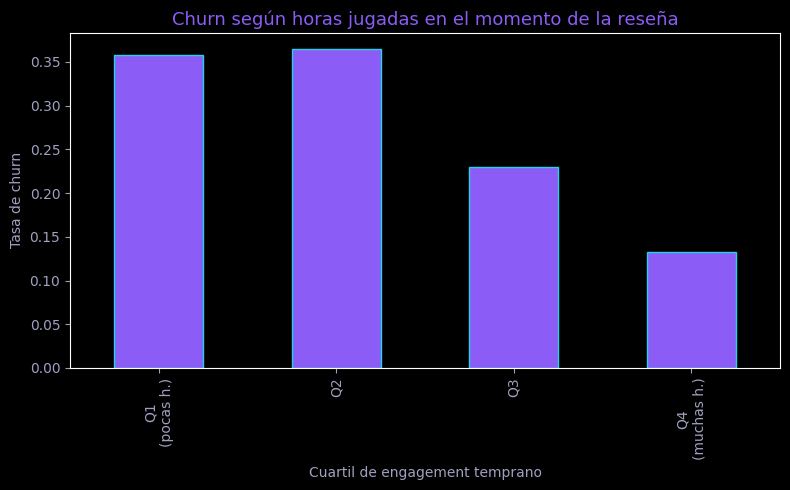
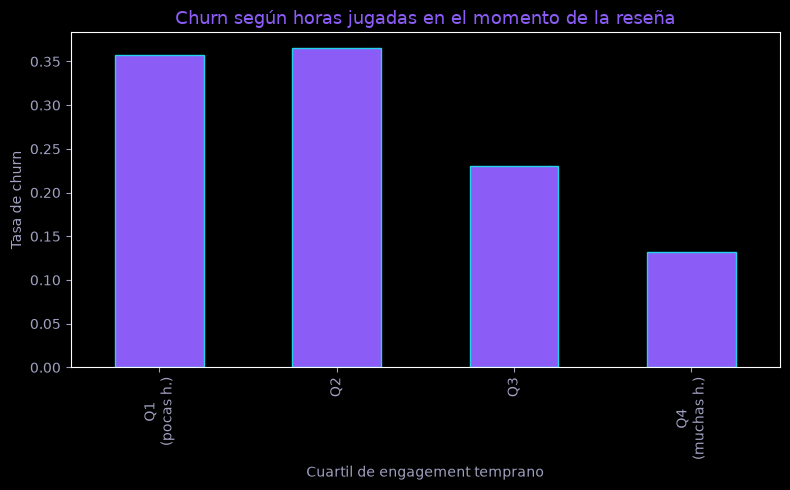
EDA unico en Jupyter: notebooks/EDA.ipynb, elimina scripts .py

diff --git a/web/i18n.js b/web/i18n.js
@@ -6,7 +6,7 @@ es: {
   hero: { badge: "● 18.099 reseñas reales · 6 F2P · cero sintéticos", h1a: "El abandono se ve venir", h1b: "en las señales tempranas", lede: "Estudiamos qué señales aparecen con más frecuencia entre quienes terminan abandonando y convertimos esas señales en <strong>prioridad, motivo y acción</strong> para Live-Ops. No adivinamos el futuro: ayudamos a decidir <strong>dónde actuar antes</strong>. Modelos auditables, validez probada <strong>juego por juego</strong>.", cta1: "Probar el simulador →", cta2: "Ver los datos reales", c1: "Jugadores reales etiquetados", c4: "ROC-AUC · Alto valor", logos: "6 títulos F2P", logos2: "pipeline reproducible" },
   mock: { bar: "live-ops · ranking semanal de riesgo", th1: "Jugador", th2: "Riesgo", th3: "Motivo", th4: "Acción", m1: "Pocas horas tempranas", a1: "Onboarding + evento diario", m2: "Señal antigua, título frío", a2: "Win-back + bundle retorno", m3: "No recomienda", a3: "Soporte proactivo", foot: "Demo ilustrativa · no es el modelo productivo · el piloto usa vuestros eventos reales" },
   prob: { title: "El problema, medido en datos reales", sub: "27,1% de los reseñistas pertenecen a la categoría de abandono que hemos definido. Y el engagement temprano muestra diferencias claras: Q1 (≤18 h) 35,7% frente a Q4 13,2% en nuestra muestra.", t1: "El abandono empieza pronto", p1: "Mediana de horas en reseña: 36,8 h en la categoría de abandono vs 120,6 h en activos. Las primeras horas pueden ser una ventana crítica para intentar enganchar al jugador.", t2: "Que guste no significa que se queden", p2: "En nuestra muestra, 26,5% de abandono entre quienes recomiendan vs 29,6% si no. La buena valoración por sí sola no debería ser la única señal para decidir a quién recuperar.", t3: "Cada juego tiene su propia historia", p3: "Dota 2 genera 3.000 reseñas en 3 días; Fall Guys en 470. El ritmo de la comunidad ayuda a entender en qué momento puede estar un juego — y dónde puede tener sentido concentrar esfuerzos." },
-  data: { title: "Datos 100% reales, auditables", sub: "18.099 reseñas públicas de Steam (API pública, sin key, 2026-09-14) → 16.447 jugadores etiquetados. Cobertura del 100% en campos clave. Procedencia completa en <code>docs/08_datos_reales.md</code>.", th1: "Título", th2: "Reseñas", th4: "Alto valor", th5: "p75 horas", note: "* Tasas dentro de nuestra muestra de personas que dejaron reseña y pertenecen a la categoría de abandono definida — no son la retención de esos juegos (documentado). Lo que generaliza son las relaciones, validadas juego por juego.", mini: "Lo que enseña cada figura (generadas por <code>notebooks/02_eda_real.py</code>)", f1t: "Estado por título", f1n: "Juegos vivos vs juegos en declive: dónde priorizar Live-Ops.", f2t: "Engagement temprano", f2n: "Q1 35,7% → Q4 13,2%: el hábito de las primeras horas decide.", f3t: "Satisfacción ≠ retención", f3n: "Recomendar apenas mueve la aguja (26,5% vs 29,6%).", zoom: "🔍 Clic para ampliar" },
+  data: { title: "Datos 100% reales, auditables", sub: "18.099 reseñas públicas de Steam (API pública, sin key, 2026-09-14) → 16.447 jugadores etiquetados. Cobertura del 100% en campos clave. Procedencia completa en <code>docs/08_datos_reales.md</code>.", th1: "Título", th2: "Reseñas", th4: "Alto valor", th5: "p75 horas", note: "* Tasas dentro de nuestra muestra de personas que dejaron reseña y pertenecen a la categoría de abandono definida — no son la retención de esos juegos (documentado). Lo que generaliza son las relaciones, validadas juego por juego.", mini: "Lo que enseña cada figura (generadas por <code>notebooks/EDA.ipynb</code>)", f1t: "Estado por título", f1n: "Juegos vivos vs juegos en declive: dónde priorizar Live-Ops.", f2t: "Engagement temprano", f2n: "Q1 35,7% → Q4 13,2%: el hábito de las primeras horas decide.", f3t: "Satisfacción ≠ retención", f3n: "Recomendar apenas mueve la aguja (26,5% vs 29,6%).", zoom: "🔍 Clic para ampliar" },
   sol: { title: "Dos puntuaciones, dos decisiones", tag1: "Producto principal", d1: "Analiza las señales disponibles y da una <strong>puntuación de riesgo + motivo + acción</strong>. No es “tiene riesgo” a secas, es “tiene prioridad porque presenta poco engagement temprano, vamos a intentar recuperarlo con esta acción”. <strong>Sin mirar la recencia</strong>: solo señales del momento de la reseña.", n1: "Validez por título ROC 0.891–0.924 en los 6 juegos. Matriz test: [[2258,140],[180,712]].", tag2: "Segunda línea · UA", d2: "Identifica perfiles que más se parecen a jugadores de mayor valor <strong>dentro de nuestros datos</strong> (top-25% horas + recomienda; threshold 0.60). Es un <strong>indicador aproximado</strong>: no tenemos gasto real y no decimos quién va a gastar. En un proyecto real se sustituye por los datos de compras del cliente.", n2: "Validez por título ROC 0.979–0.996. Indicador aproximado y transparente: los F2P no exponen pagos.", ht: "🔍 Honestidad técnica: qué podemos afirmar y qué no", h1: "<strong>Sin ventaja artificial:</strong> el modelo nunca ve horas totales, últimas 2 semanas, recencia, p75 ni (en conversión) el voto — definen las etiquetas. Verificable en <code>src/train_real.py</code>.", h2: "<strong>Sesgo declarado:</strong> muestra de personas que dejaron reseña, no de todos los jugadores; ventanas de observación desiguales; juegos PC F2P en Steam como los de PlayNova. Todo en <code>docs/08_datos_reales.md</code>.", h3: "<strong>Sin magia:</strong> una buena solución no es solo un número alto, es saber qué podemos afirmar y qué no. Artefactos versionados: <code>models/real_*.pkl</code>, <code>models/real_metrics.json</code>, DB de 2 MB." },
   demo: { title: "Demo: aquí no explicamos, lo enseñamos", sub: "Ajusta el perfil y mira prioridad, motivo y acción. Demo ilustrativa calibrada con las importancias reales — no es exactamente el modelo productivo.", hours: "Horas jugadas (en reseña):", hoursUnit: "h", games: "Juegos en la cuenta:", age: "Antigüedad de la señal:", ageUnit: "días", titleLab: "Título", t_dota: "Dota 2 (vivo)", t_apex: "Apex Legends (vivo)", t_poe: "Path of Exile (frío)", t_fall: "Fall Guys (en declive)", votedLab: "¿Recomienda el juego?", yes: "Sí", no: "No", p1: "⚠ En riesgo", p2: "😐 Típico", p3: "✅ Sano", bTitle: "🧮 Calculadora de escenario (estimación, no garantía)", bDesc: "Escenario con nuestro indicador aproximado: ~19,9% encajaría en el grupo de alto valor. Es una <strong>estimación basada en nuestro proxy, no una garantía de ingresos</strong>. En un proyecto real lo sustituimos por los datos de PlayNova Games.", budget: "Budget ($/mes)", ltv: "LTV alto valor ($)", calc: "Calcular" },
   pilot: { title: "Piloto de 4 semanas: probarlo con vuestros datos", sub: "No os pedimos que creáis en ChurnGuard. Os pedimos cuatro semanas para demostrarlo con vuestros propios datos.", t1: "Semana 1 · Conectar", p1: "Export diario de eventos con identificadores anonimizados (CSV o endpoint): sesiones, progresión, compras, atribución. Firma DPA. Nada invasivo el día 1.", t2: "Semanas 2–3 · Probar", p2: "Grupo de mayor prioridad + acción recomendada vs grupo con tratamiento habitual. Métrica primaria: retención. Secundarias: 2ª sesión y conversión.", t3: "Semana 4 · Decidir", p3: "Medimos si ha mejorado la retención y la conversión. Si funciona, tenemos argumentos para continuar. Si no funciona, también lo sabremos. Precio piloto: <strong>2.500 €</strong> fijos.", ht: "🔌 Integración y GDPR", h1: "<strong>Input:</strong> CSV diario o POST JSON a <code>/score</code> → <code>{p_churn, motivo, acción}</code>. Latencia &lt; 200 ms p95.", h2: "<strong>Privacidad:</strong> IDs anonimizados, sin PII. Borrado a petición, retención 90 días.", h3: "<strong>Stack:</strong> scikit-learn versionado (seed 42), <code>.pkl</code> con encoders. Re-entreno semanal." },
@@ -20,7 +20,7 @@ en: {
   hero: { badge: "● 18,099 real reviews · 6 F2P · zero synthetic", h1a: "Abandonment can be seen coming", h1b: "in the early signals", lede: "We study which signals appear most often among players who end up leaving and turn them into <strong>priority, reason and action</strong> for Live-Ops. We don't guess the future: we help decide <strong>where to act first</strong>. Auditable models, proven <strong>game by game</strong>.", cta1: "Try the simulator →", cta2: "See the real data", c1: "Labelled real players", c4: "ROC-AUC · High value", logos: "6 F2P titles", logos2: "reproducible pipeline" },
   mock: { bar: "live-ops · weekly risk ranking", th1: "Player", th2: "Risk", th3: "Reason", th4: "Action", m1: "Few early hours", a1: "Onboarding + daily event", m2: "Old signal, cold title", a2: "Win-back + return bundle", m3: "Doesn't recommend", a3: "Proactive support", foot: "Illustrative demo · not the production model · the pilot uses your real events" },
   prob: { title: "The problem, measured in real data", sub: "27.1% of reviewers fall into the churn category we defined. And early engagement shows clear gaps: Q1 (≤18 h) 35.7% vs Q4 13.2% in our sample.", t1: "Churn starts early", p1: "Median review-time hours: 36.8 h in the churn category vs 120.6 h when active. The first hours can be a critical window to hook the player.", t2: "Liking it doesn't mean staying", p2: "In our sample, 26.5% churn among recommenders vs 29.6% otherwise. A good rating alone shouldn't be the only signal for who to win back.", t3: "Every game has its own story", p3: "Dota 2 gets 3,000 reviews in 3 days; Fall Guys in 470. Community pace helps tell which phase a game may be in — and where it makes sense to focus effort." },
-  data: { title: "100% real, auditable data", sub: "18,099 public Steam reviews (public API, no key, 2026-09-14) → 16,447 labelled players. 100% coverage on key fields. Full provenance in <code>docs/08_datos_reales.md</code>.", th1: "Title", th2: "Reviews", th4: "High value", th5: "p75 hours", note: "* Rates within our sample of reviewers in the defined churn category — not those games' retention (documented). What generalises are the relationships, validated game by game.", mini: "What each chart shows (generated by <code>notebooks/02_eda_real.py</code>)", f1t: "Status by title", f1n: "Live vs declining games: where to focus Live-Ops.", f2t: "Early engagement", f2n: "Q1 35.7% → Q4 13.2%: early-hours habit decides.", f3t: "Satisfaction ≠ retention", f3n: "Recommending barely moves the needle (26.5% vs 29.6%).", zoom: "🔍 Click to enlarge" },
+  data: { title: "100% real, auditable data", sub: "18,099 public Steam reviews (public API, no key, 2026-09-14) → 16,447 labelled players. 100% coverage on key fields. Full provenance in <code>docs/08_datos_reales.md</code>.", th1: "Title", th2: "Reviews", th4: "High value", th5: "p75 hours", note: "* Rates within our sample of reviewers in the defined churn category — not those games' retention (documented). What generalises are the relationships, validated game by game.", mini: "What each chart shows (generated by <code>notebooks/EDA.ipynb</code>)", f1t: "Status by title", f1n: "Live vs declining games: where to focus Live-Ops.", f2t: "Early engagement", f2n: "Q1 35.7% → Q4 13.2%: early-hours habit decides.", f3t: "Satisfaction ≠ retention", f3n: "Recommending barely moves the needle (26.5% vs 29.6%).", zoom: "🔍 Click to enlarge" },
   sol: { title: "Two scores, two decisions", tag1: "Flagship product", d1: "It analyses the available signals and returns a <strong>risk score + reason + action</strong>. Not just “at risk”, but “priority because of low early engagement — let's try to win them back with this action”. <strong>Without looking at recency</strong>: only review-time signals.", n1: "Per-title validity ROC 0.891–0.924 across 6 games. Test matrix: [[2258,140],[180,712]].", tag2: "Second line · UA", d2: "It finds profiles most similar to higher-value players <strong>within our data</strong> (top-25% hours + recommends; threshold 0.60). It is an <strong>approximate indicator</strong>: we have no real spend and don't claim who will spend. In a real project it is replaced by the client's purchase data.", n2: "Per-title validity ROC 0.979–0.996. Approximate, transparent indicator: F2P games don't expose payments.", ht: "🔍 Technical honesty: what we can and can't claim", h1: "<strong>No unfair advantage:</strong> the model never sees total hours, last 2 weeks, recency, p75 or (for conversion) the vote — they define the labels. Verifiable in <code>src/train_real.py</code>.", h2: "<strong>Declared bias:</strong> sample of reviewers, not all players; uneven observation windows; PC F2P games on Steam like PlayNova's. All in <code>docs/08_datos_reales.md</code>.", h3: "<strong>No magic:</strong> a good solution isn't just a high number, it's knowing what we can and can't claim. Versioned artefacts: <code>models/real_*.pkl</code>, <code>models/real_metrics.json</code>, 2 MB DB." },
   demo: { title: "Demo: we don't explain, we show", sub: "Tune the profile and see priority, reason and action. Illustrative demo calibrated on real importances — not exactly the production model.", hours: "Hours played (at review):", hoursUnit: "h", games: "Games on the account:", age: "Signal age:", ageUnit: "days", titleLab: "Title", t_dota: "Dota 2 (live)", t_apex: "Apex Legends (live)", t_poe: "Path of Exile (cold)", t_fall: "Fall Guys (declining)", votedLab: "Does the player recommend the game?", yes: "Yes", no: "No", p1: "⚠ At risk", p2: "😐 Typical", p3: "✅ Healthy", bTitle: "🧮 Scenario calculator (estimate, not a guarantee)", bDesc: "Scenario with our approximate indicator: ~19.9% would fit the high-value group. This is an <strong>estimate based on our proxy, not a revenue guarantee</strong>. In a real project we replace it with PlayNova Games data.", budget: "Budget ($/month)", ltv: "High-value LTV ($)", calc: "Calculate" },
   pilot: { title: "4-week pilot: prove it on your data", sub: "We're not asking you to believe in ChurnGuard. We're asking for four weeks to prove it on your own data.", t1: "Week 1 · Connect", p1: "Daily event export with anonymised IDs (CSV or endpoint): sessions, progression, purchases, attribution. DPA signed. Nothing invasive on day 1.", t2: "Weeks 2–3 · Test", p2: "Top-priority group + recommended action vs business-as-usual group. Primary metric: retention. Secondary: 2nd session and conversion.", t3: "Week 4 · Decide", p3: "We measure whether retention and conversion improved. If it works, we have grounds to continue. If not, we'll know too. Pilot price: <strong>€2,500</strong> fixed.", ht: "🔌 Integration & GDPR", h1: "<strong>Input:</strong> daily CSV or POST JSON to <code>/score</code> → <code>{p_churn, reason, action}</code>. Latency &lt; 200 ms p95.", h2: "<strong>Privacy:</strong> anonymised IDs, no PII. Deletion on request, 90-day retention.", h3: "<strong>Stack:</strong> versioned scikit-learn (seed 42), <code>.pkl</code> with encoders. Weekly retraining." },
@@ -34,7 +34,7 @@ fr: {
   hero: { badge: "● 18 099 avis réels · 6 F2P · zéro synthétique", h1a: "L'abandon se voit venir", h1b: "dans les signaux précoces", lede: "Nous étudions les signaux les plus fréquents chez les joueurs qui finissent par partir et les convertissons en <strong>priorité, motif et action</strong> pour le Live-Ops. Nous ne prédisons pas l'avenir : nous aidons à décider <strong>où agir d'abord</strong>. Modèles auditables, validité prouvée <strong>jeu par jeu</strong>.", cta1: "Tester le simulateur →", cta2: "Voir les données réelles", c1: "Joueurs réels étiquetés", c4: "ROC-AUC · Haute valeur", logos: "6 titres F2P", logos2: "pipeline reproductible" },
   mock: { bar: "live-ops · classement hebdo du risque", th1: "Joueur", th2: "Risque", th3: "Motif", th4: "Action", m1: "Peu d'heures précoces", a1: "Onboarding + événement quotidien", m2: "Signal ancien, titre froid", a2: "Win-back + bundle retour", m3: "Ne recommande pas", a3: "Support proactif", foot: "Démo illustrative · pas le modèle productif · le pilote utilise vos vrais événements" },
   prob: { title: "Le problème, mesuré en données réelles", sub: "27,1 % des auteurs d'avis entrent dans la catégorie d'abandon définie. Et l'engagement précoce montre des écarts nets : Q1 (≤18 h) 35,7 % contre Q4 13,2 % dans notre échantillon.", t1: "L'abandon commence tôt", p1: "Médiane d'heures à l'avis : 36,8 h dans la catégorie abandon contre 120,6 h chez les actifs. Les premières heures peuvent être une fenêtre critique pour accrocher le joueur.", t2: "Aimer ne veut pas dire rester", p2: "Dans notre échantillon, 26,5 % d'abandon chez ceux qui recommandent contre 29,6 % sinon. Une bonne note seule ne devrait pas être le seul signal pour choisir qui récupérer.", t3: "Chaque jeu a sa propre histoire", p3: "Dota 2 génère 3 000 avis en 3 jours ; Fall Guys en 470. Le rythme de la communauté aide à comprendre la phase d'un jeu — et où concentrer les efforts." },
-  data: { title: "Données 100 % réelles, auditables", sub: "18 099 avis Steam publics (API publique, sans clé, 2026-09-14) → 16 447 joueurs étiquetés. Couverture 100 % sur les champs clés. Provenance complète dans <code>docs/08_datos_reales.md</code>.", th1: "Titre", th2: "Avis", th4: "Haute valeur", th5: "p75 heures", note: "* Taux dans notre échantillon d'auteurs d'avis dans la catégorie d'abandon définie — pas la rétention de ces jeux (documenté). Ce qui se généralise, ce sont les relations, validées jeu par jeu.", mini: "Ce que montre chaque figure (générées par <code>notebooks/02_eda_real.py</code>)", f1t: "Statut par titre", f1n: "Jeux vivants vs en déclin : où prioriser le Live-Ops.", f2t: "Engagement précoce", f2n: "Q1 35,7 % → Q4 13,2 % : l'habitude des premières heures décide.", f3t: "Satisfaction ≠ rétention", f3n: "Recommander change à peine la donne (26,5 % vs 29,6 %).", zoom: "🔍 Cliquer pour agrandir" },
+  data: { title: "Données 100 % réelles, auditables", sub: "18 099 avis Steam publics (API publique, sans clé, 2026-09-14) → 16 447 joueurs étiquetés. Couverture 100 % sur les champs clés. Provenance complète dans <code>docs/08_datos_reales.md</code>.", th1: "Titre", th2: "Avis", th4: "Haute valeur", th5: "p75 heures", note: "* Taux dans notre échantillon d'auteurs d'avis dans la catégorie d'abandon définie — pas la rétention de ces jeux (documenté). Ce qui se généralise, ce sont les relations, validées jeu par jeu.", mini: "Ce que montre chaque figure (générées par <code>notebooks/EDA.ipynb</code>)", f1t: "Statut par titre", f1n: "Jeux vivants vs en déclin : où prioriser le Live-Ops.", f2t: "Engagement précoce", f2n: "Q1 35,7 % → Q4 13,2 % : l'habitude des premières heures décide.", f3t: "Satisfaction ≠ rétention", f3n: "Recommander change à peine la donne (26,5 % vs 29,6 %).", zoom: "🔍 Cliquer pour agrandir" },
   sol: { title: "Deux scores, deux décisions", tag1: "Produit principal", d1: "Analyse les signaux disponibles et renvoie <strong>score de risque + motif + action</strong>. Pas seulement « à risque », mais « prioritaire car faible engagement précoce — essayons de le récupérer avec cette action ». <strong>Sans regarder la récence</strong> : seuls les signaux au moment de l'avis.", n1: "Validité par titre ROC 0,891–0,924 sur 6 jeux. Matrice test : [[2258,140],[180,712]].", tag2: "Seconde ligne · UA", d2: "Identifie les profils les plus proches des joueurs à haute valeur <strong>dans nos données</strong> (top-25 % heures + recommande ; seuil 0,60). C'est un <strong>indicateur approximatif</strong> : sans dépense réelle, sans dire qui va dépenser. En projet réel, remplacé par les achats du client.", n2: "Validité par titre ROC 0,979–0,996. Indicateur approximatif et transparent : les F2P n'exposent pas les paiements.", ht: "🔍 Honnêteté technique : ce que l'on peut affirmer ou non", h1: "<strong>Sans avantage artificiel :</strong> le modèle ne voit jamais les heures totales, les 2 dernières semaines, la récence, le p75 ni (en conversion) le vote — ils définissent les étiquettes. Vérifiable dans <code>src/train_real.py</code>.", h2: "<strong>Biais déclaré :</strong> échantillon d'auteurs d'avis, pas tous les joueurs ; fenêtres d'observation inégales ; jeux PC F2P sur Steam comme ceux de PlayNova. Tout dans <code>docs/08_datos_reales.md</code>.", h3: "<strong>Sans magie :</strong> une bonne solution n'est pas qu'un chiffre élevé, c'est savoir ce que l'on peut affirmer ou non. Artefacts versionnés : <code>models/real_*.pkl</code>, <code>models/real_metrics.json</code>, DB de 2 Mo." },
   demo: { title: "Démo : on ne raconte pas, on montre", sub: "Ajustez le profil et voyez priorité, motif et action. Démo illustrative calibrée sur les importances réelles — pas exactement le modèle productif.", hours: "Heures jouées (à l'avis) :", hoursUnit: "h", games: "Jeux sur le compte :", age: "Ancienneté du signal :", ageUnit: "jours", titleLab: "Titre", t_dota: "Dota 2 (vivant)", t_apex: "Apex Legends (vivant)", t_poe: "Path of Exile (froid)", t_fall: "Fall Guys (en déclin)", votedLab: "Recommande-t-il le jeu ?", yes: "Oui", no: "Non", p1: "⚠ À risque", p2: "😐 Typique", p3: "✅ Sain", bTitle: "🧮 Calculateur de scénario (estimation, pas garantie)", bDesc: "Scénario avec notre indicateur approximatif : ~19,9 % entreraient dans le groupe haute valeur. C'est une <strong>estimation basée sur notre proxy, pas une garantie de revenus</strong>. En projet réel, remplacé par les données PlayNova Games.", budget: "Budget ($/mois)", ltv: "LTV haute valeur ($)", calc: "Calculer" },
   pilot: { title: "Pilote de 4 semaines : prouver sur vos données", sub: "Nous ne vous demandons pas de croire en ChurnGuard. Donnez-nous quatre semaines pour le prouver sur vos propres données.", t1: "Semaine 1 · Connecter", p1: "Export quotidien d'événements anonymisés (CSV ou endpoint) : sessions, progression, achats, attribution. DPA signé. Rien d'invasif au jour 1.", t2: "Semaines 2–3 · Tester", p2: "Groupe prioritaire + action recommandée vs groupe témoin habituel. Métrique primaire : rétention. Secondaires : 2e session et conversion.", t3: "Semaine 4 · Décider", p3: "On mesure si la rétention et la conversion se sont améliorées. Si ça marche, on continue. Sinon, on le saura aussi. Prix pilote : <strong>2 500 €</strong> fixes.", ht: "🔌 Intégration et RGPD", h1: "<strong>Entrée :</strong> CSV quotidien ou POST JSON vers <code>/score</code> → <code>{p_churn, motif, action}</code>. Latence &lt; 200 ms p95.", h2: "<strong>Confidentialité :</strong> IDs anonymisés, sans PII. Suppression sur demande, rétention 90 jours.", h3: "<strong>Stack :</strong> scikit-learn versionné (seed 42), <code>.pkl</code> avec encodeurs. Ré-entraînement hebdo." },
@@ -48,7 +48,7 @@ de: {
   hero: { badge: "● 18.099 echte Reviews · 6 F2P · null synthetisch", h1a: "Abwanderung kündigt sich an", h1b: "in den frühen Signalen", lede: "Wir untersuchen, welche Signale bei Spielern, die am Ende gehen, am häufigsten auftreten, und machen daraus <strong>Priorität, Grund und Aktion</strong> für Live-Ops. Wir raten die Zukunft nicht: Wir helfen zu entscheiden, <strong>wo zuerst zu handeln ist</strong>. Auditierbare Modelle, <strong>Spiel für Spiel</strong> belegt.", cta1: "Simulator testen →", cta2: "Echte Daten ansehen", c1: "Gelabelte echte Spieler", c4: "ROC-AUC · High-Value", logos: "6 F2P-Titel", logos2: "reproduzierbare Pipeline" },
   mock: { bar: "Live-Ops · wöchentliches Risiko-Ranking", th1: "Spieler", th2: "Risiko", th3: "Grund", th4: "Aktion", m1: "Wenige frühe Stunden", a1: "Onboarding + Daily-Event", m2: "Altes Signal, kalter Titel", a2: "Win-back + Return-Bundle", m3: "Empfiehlt nicht", a3: "Proaktiver Support", foot: "Illustrative Demo · nicht das Produktivmodell · der Pilot nutzt eure echten Events" },
   prob: { title: "Das Problem, gemessen in echten Daten", sub: "27,1 % der Reviewer fallen in unsere definierte Abwanderungskategorie. Und frühes Engagement zeigt klare Unterschiede: Q1 (≤18 h) 35,7 % vs. Q4 13,2 % in unserer Stichprobe.", t1: "Abwanderung beginnt früh", p1: "Mediane Review-Stunden: 36,8 h in der Abwanderungskategorie vs. 120,6 h bei Aktiven. Die ersten Stunden können ein kritisches Fenster sein, um Spieler zu binden.", t2: "Mögen heißt nicht bleiben", p2: "In unserer Stichprobe: 26,5 % Churn bei Empfehlern vs. 29,6 % sonst. Eine gute Bewertung allein sollte nicht das einzige Signal sein, wen wir zurückgewinnen.", t3: "Jedes Spiel hat seine eigene Geschichte", p3: "Dota 2 erzeugt 3.000 Reviews in 3 Tagen; Fall Guys in 470. Das Community-Tempo zeigt, in welcher Phase ein Spiel sein kann — und wo Fokus lohnt." },
-  data: { title: "100 % echte, auditierbare Daten", sub: "18.099 öffentliche Steam-Reviews (öffentliche API, ohne Key, 2026-09-14) → 16.447 gelabelte Spieler. 100 % Abdeckung der Kernfelder. Vollständige Herkunft in <code>docs/08_datos_reales.md</code>.", th1: "Titel", th2: "Reviews", th4: "High-Value", th5: "p75 Stunden", note: "* Raten innerhalb unserer Reviewer-Stichprobe in der definierten Kategorie — nicht die Retention dieser Spiele (dokumentiert). Was generalisiert, sind die Zusammenhänge, Spiel für Spiel validiert.", mini: "Was jede Grafik zeigt (erzeugt von <code>notebooks/02_eda_real.py</code>)", f1t: "Status pro Titel", f1n: "Lebendige vs. schrumpfende Spiele: wo Live-Ops priorisieren.", f2t: "Frühes Engagement", f2n: "Q1 35,7 % → Q4 13,2 %: Gewohnheit der ersten Stunden entscheidet.", f3t: "Zufriedenheit ≠ Bindung", f3n: "Empfehlen bewegt kaum etwas (26,5 % vs. 29,6 %).", zoom: "🔍 Klicken zum Vergrößern" },
+  data: { title: "100 % echte, auditierbare Daten", sub: "18.099 öffentliche Steam-Reviews (öffentliche API, ohne Key, 2026-09-14) → 16.447 gelabelte Spieler. 100 % Abdeckung der Kernfelder. Vollständige Herkunft in <code>docs/08_datos_reales.md</code>.", th1: "Titel", th2: "Reviews", th4: "High-Value", th5: "p75 Stunden", note: "* Raten innerhalb unserer Reviewer-Stichprobe in der definierten Kategorie — nicht die Retention dieser Spiele (dokumentiert). Was generalisiert, sind die Zusammenhänge, Spiel für Spiel validiert.", mini: "Was jede Grafik zeigt (erzeugt von <code>notebooks/EDA.ipynb</code>)", f1t: "Status pro Titel", f1n: "Lebendige vs. schrumpfende Spiele: wo Live-Ops priorisieren.", f2t: "Frühes Engagement", f2n: "Q1 35,7 % → Q4 13,2 %: Gewohnheit der ersten Stunden entscheidet.", f3t: "Zufriedenheit ≠ Bindung", f3n: "Empfehlen bewegt kaum etwas (26,5 % vs. 29,6 %).", zoom: "🔍 Klicken zum Vergrößern" },
   sol: { title: "Zwei Scores, zwei Entscheidungen", tag1: "Hauptprodukt", d1: "Analysiert die verfügbaren Signale und liefert <strong>Risiko-Score + Grund + Aktion</strong>. Nicht nur „riskant“, sondern „Priorität wegen geringem frühem Engagement — wir versuchen es mit dieser Aktion zurückzugewinnen“. <strong>Ohne Blick auf Recency</strong>: nur Signale zum Review-Zeitpunkt.", n1: "Validität pro Titel ROC 0,891–0,924 in 6 Spielen. Test-Matrix: [[2258,140],[180,712]].", tag2: "Zweite Linie · UA", d2: "Findet Profile, die Spielern mit höherem Wert <strong>in unseren Daten</strong> am ähnlichsten sind (Top-25 % Stunden + empfiehlt; Threshold 0,60). Es ist ein <strong>Näherungsindikator</strong>: ohne echte Ausgaben, ohne zu sagen, wer ausgeben wird. Im Echtprojekt ersetzt durch Kaufdaten des Kunden.", n2: "Validität pro Titel ROC 0,979–0,996. Näherungsweise, transparent: F2P-Spiele legen Zahlungen nicht offen.", ht: "🔍 Technische Ehrlichkeit: was wir sagen können — und was nicht", h1: "<strong>Kein unfairer Vorteil:</strong> Das Modell sieht nie Gesamtstunden, letzte 2 Wochen, Recency, p75 oder (bei Conversion) das Votum — sie definieren die Labels. Prüfbar in <code>src/train_real.py</code>.", h2: "<strong>Deklarierter Bias:</strong> Stichprobe von Reviewern, nicht aller Spieler; ungleiche Beobachtungsfenster; PC-F2P-Spiele auf Steam wie die von PlayNova. Alles in <code>docs/08_datos_reales.md</code>.", h3: "<strong>Keine Magie:</strong> Eine gute Lösung ist nicht nur eine hohe Zahl, sondern zu wissen, was man sagen kann und was nicht. Versionierte Artefakte: <code>models/real_*.pkl</code>, <code>models/real_metrics.json</code>, 2-MB-DB." },
   demo: { title: "Demo: Wir erklären nicht, wir zeigen", sub: "Profil anpassen und Priorität, Grund und Aktion sehen. Illustrative, an realen Importances kalibrierte Demo — nicht exakt das Produktivmodell.", hours: "Gespielte Stunden (zum Review):", hoursUnit: "Std.", games: "Spiele auf dem Konto:", age: "Signalalter:", ageUnit: "Tage", titleLab: "Titel", t_dota: "Dota 2 (lebendig)", t_apex: "Apex Legends (lebendig)", t_poe: "Path of Exile (kalt)", t_fall: "Fall Guys (schrumpfend)", votedLab: "Empfiehlt das Spiel?", yes: "Ja", no: "Nein", p1: "⚠ Gefährdet", p2: "😐 Typisch", p3: "✅ Gesund", bTitle: "🧮 Szenario-Rechner (Schätzung, keine Garantie)", bDesc: "Szenario mit unserem Näherungsindikator: ~19,9 % fielen in die High-Value-Gruppe. Das ist eine <strong>Schätzung auf Proxy-Basis, keine Umsatzgarantie</strong>. Im Echtprojekt ersetzen wir sie durch PlayNova-Games-Daten.", budget: "Budget ($/Monat)", ltv: "High-Value-LTV ($)", calc: "Berechnen" },
   pilot: { title: "4-Wochen-Pilot: Beweis mit euren Daten", sub: "Wir bitten nicht um Glauben an ChurnGuard. Wir bitten um vier Wochen, um es mit euren eigenen Daten zu beweisen.", t1: "Woche 1 · Anbinden", p1: "Täglicher Event-Export mit anonymisierten IDs (CSV oder Endpoint): Sessions, Progression, Käufe, Attribution. DPA unterschrieben. Nichts Invasives an Tag 1.", t2: "Wochen 2–3 · Testen", p2: "Top-Prioritätsgruppe + empfohlene Aktion vs. Kontrollgruppe wie bisher. Primärmetrik: Retention. Sekundär: 2. Session und Conversion.", t3: "Woche 4 · Entscheiden", p3: "Wir messen, ob Retention und Conversion besser wurden. Wenn ja, machen wir weiter. Wenn nicht, wissen wir es auch. Pilotpreis: <strong>2.500 €</strong> fix.", ht: "🔌 Integration & DSGVO", h1: "<strong>Input:</strong> tägliches CSV oder POST-JSON an <code>/score</code> → <code>{p_churn, Grund, Aktion}</code>. Latenz &lt; 200 ms p95.", h2: "<strong>Privatsphäre:</strong> anonymisierte IDs, keine PII. Löschung auf Wunsch, 90 Tage Aufbewahrung.", h3: "<strong>Stack:</strong> versioniertes scikit-learn (Seed 42), <code>.pkl</code> mit Encodern. Wöchentliches Retraining." },

diff --git a/web/index.html b/web/index.html
@@ -88,7 +88,7 @@
     <tr><td>Fall Guys</td><td>2.797</td><td>91,2%</td><td>20,5%</td><td>85 h</td></tr>
   </table>
   <p class="note" data-i18n="data.note">* Tasas dentro de nuestra muestra de personas que dejaron reseña y pertenecen a la categoría de abandono definida — no son la retención de esos juegos (documentado). Lo que generaliza son las relaciones, validadas juego por juego.</p>
-  <h3 class="mini-title" data-i18n-html="data.mini">Lo que enseña cada figura (generadas por <code>notebooks/02_eda_real.py</code>)</h3>
+  <h3 class="mini-title" data-i18n-html="data.mini">Lo que enseña cada figura (generadas por <code>notebooks/EDA.ipynb</code>)</h3>
   <div class="fig-grid">
     <div class="card"><h3 data-i18n="data.f1t">Estado por título</h3><img class="zoomable" src="assets/fig-titulo.png" alt="Churn y alto valor por título" loading="lazy" title="Clic para ampliar"><p class="note"><span data-i18n="data.f1n">Juegos vivos vs juegos en declive: dónde priorizar Live-Ops.</span> <span class="zoom-hint" data-i18n="data.zoom">🔍 Clic para ampliar</span></p></div>
     <div class="card"><h3 data-i18n="data.f2t">Engagement temprano</h3><img class="zoomable" src="assets/fig-engagement.png" alt="Churn por cuartil de horas" loading="lazy" title="Clic para ampliar"><p class="note"><span data-i18n="data.f2n">Q1 35,7% → Q4 13,2%: el hábito de las primeras horas decide.</span> <span class="zoom-hint" data-i18n="data.zoom">🔍 Clic para ampliar</span></p></div>
@@ -225,7 +225,7 @@
     <div class="card"><h3 data-i18n="met.d10t">Paso 1 · Idea</h3><p data-i18n="met.d10p">Foco: señales de posible abandono + perfiles de mayor valor para F2P. Cliente piloto: PlayNova Games.</p></div>
     <div class="card"><h3 data-i18n="met.d11t">Paso 2 · Cliente y datos</h3><p data-i18n="met.d11p">APIs evaluadas (Steam ✓, OpenDota ✗ por timeouts). Schema real en la DB.</p></div>
     <div class="card"><h3 data-i18n="met.d12t">Paso 3 · Dataset real</h3><p><code>fetch_steam_reviews → build_real_dataset</code><span data-i18n="met.d12p">: 18.099 reseñas → 16.447 etiquetados.</span></p></div>
-    <div class="card"><h3 data-i18n="met.d13t">Paso 4 · Análisis</h3><p><code>02_eda_real.py</code><span data-i18n="met.d13p">: engagement temprano, fase por título, voto≠retención.</span></p></div>
+    <div class="card"><h3 data-i18n="met.d13t">Paso 4 · Análisis</h3><p><code>EDA.ipynb</code><span data-i18n="met.d13p">: engagement temprano, fase por título, voto≠retención.</span></p></div>
     <div class="card"><h3 data-i18n="met.d14t">Paso 5 · Solución</h3><p><code>train_real.py</code><span data-i18n="met.d14p"> anti-fuga + </span><code>eval_per_title.py</code><span data-i18n="met.d14p2">: ROC 0.89–0.92 por juego.</span></p></div>
   </div>
   <h3 class="mini-title" data-i18n="met.faqT">Preguntas que haría tu CTO</h3>

diff --git a/README.md b/README.md
@@ -68,7 +68,7 @@ pip install -r requirements.txt
 python src/fetch_steam_reviews.py    # descarga las 18k opiniones (~5 min)
 python src/build_real_dataset.py    # ordena y etiqueta los datos
 python src/train_real.py            # entrena los dos modelos
-python notebooks/02_eda_real.py     # crea los 3 gráficos
+jupyter notebook notebooks/EDA.ipynb  # EDA (abrir en Jupyter, genera docs/img/eda_*.png)
 python src/eval_per_title.py        # comprueba que funciona juego por juego
 cd web
 python -m http.server 8321          # abre la web en http://localhost:8321

diff --git a/docs/04_analisis.md b/docs/04_analisis.md
@@ -1,6 +1,6 @@
 # Análisis sobre datos reales
 
-Script `notebooks/02_eda_real.py` (reproducible). Todo lo de abajo está medido en
+Notebook `notebooks/EDA.ipynb` (reproducible, abrir con Jupyter). Todo lo de abajo está medido en
 `data/playnova_real.db` (16.447 filas). Figuras en `docs/img/` y `web/assets/`.
 
 ## Hallazgos verificados
